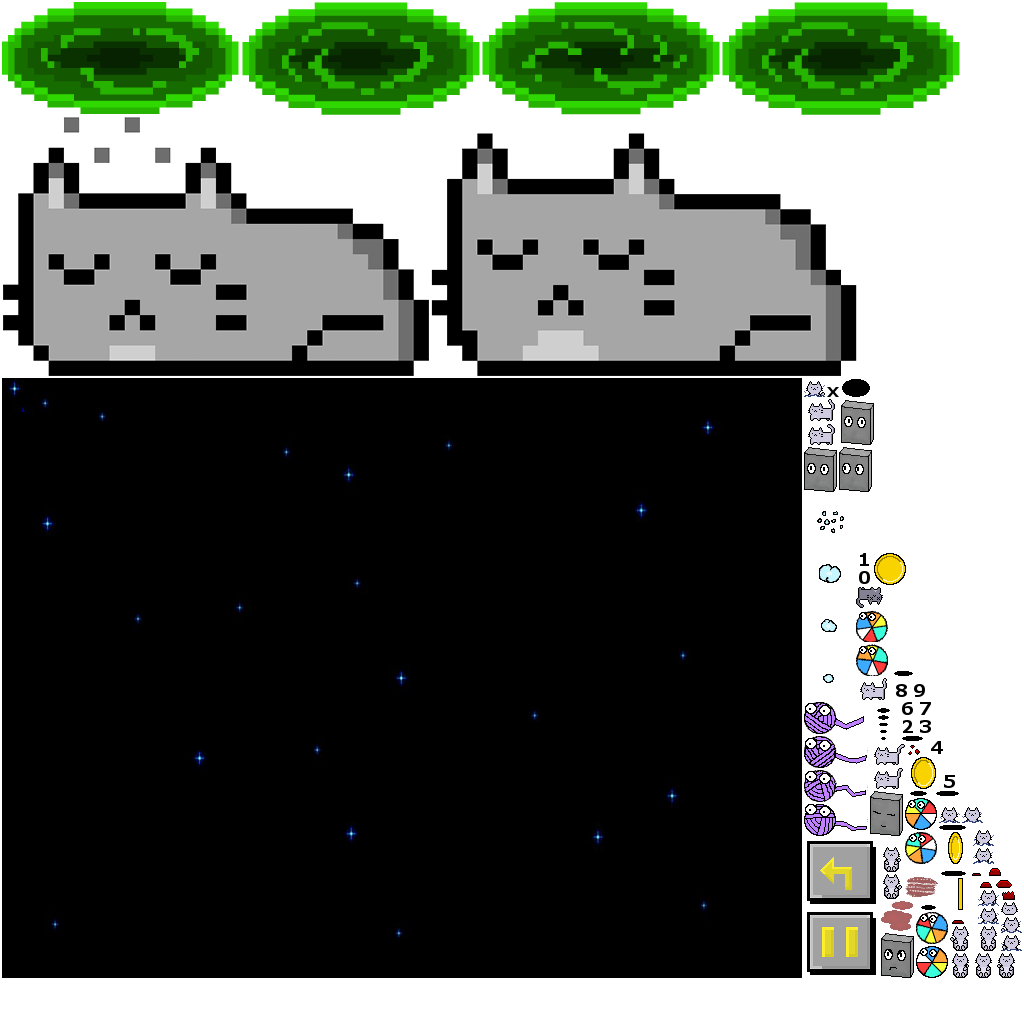
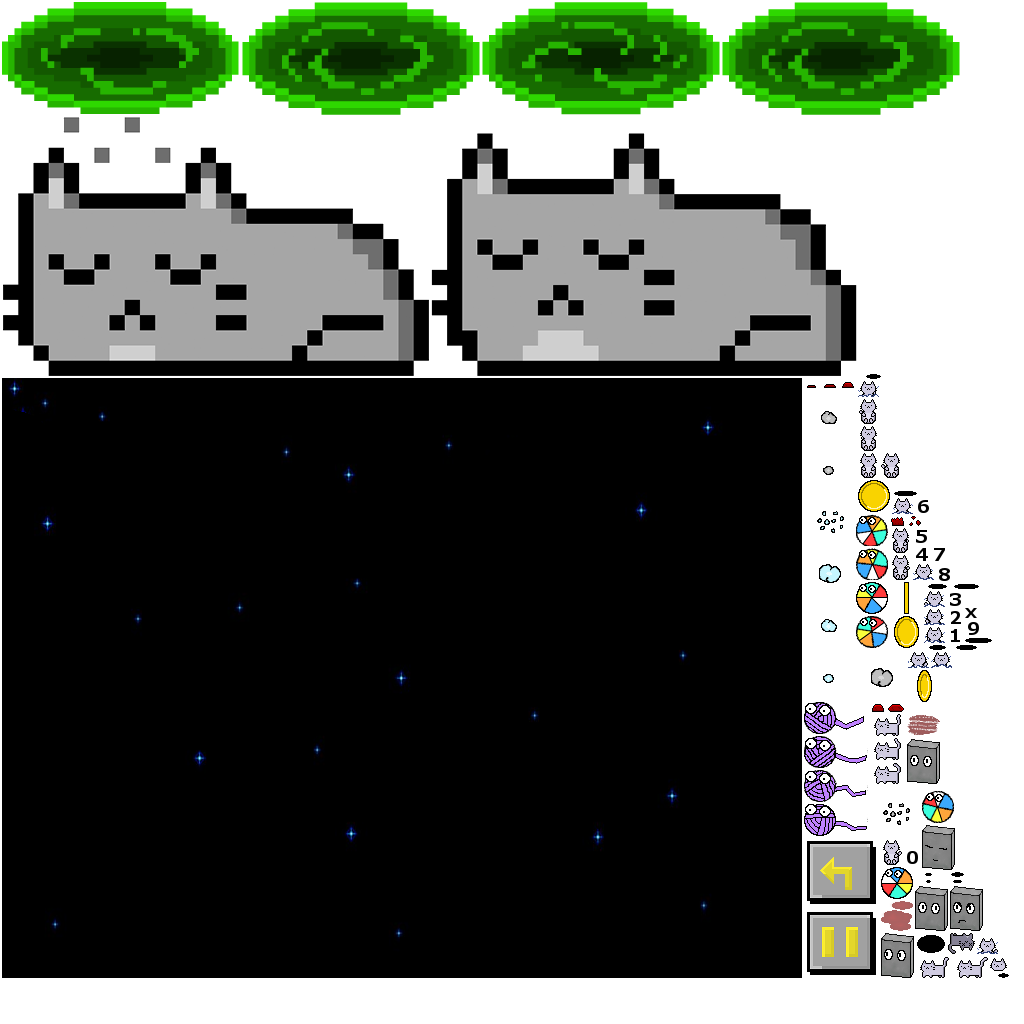
Added cat1s annihilation death smoke

Changed region(s): [[0.7812, 0.375, 1.0, 0.9688]]

diff --git a/core/src/com/sandra/game/screens/Level.java b/core/src/com/sandra/game/screens/Level.java
@@ -14,6 +14,7 @@ import com.badlogic.gdx.graphics.g2d.Sprite;
 import com.badlogic.gdx.maps.tiled.TiledMap;
 import com.badlogic.gdx.maps.tiled.TmxMapLoader;
 import com.badlogic.gdx.maps.tiled.renderers.OrthoCachedTiledMapRenderer;
+import com.badlogic.gdx.math.DelaunayTriangulator;
 import com.badlogic.gdx.math.Vector2;
 import com.badlogic.gdx.physics.box2d.Box2DDebugRenderer;
 import com.badlogic.gdx.physics.box2d.World;
@@ -25,6 +26,7 @@ import com.sandra.game.Cat_game;
 import com.sandra.game.entities.Blood;
 import com.sandra.game.entities.Cat1;
 import com.sandra.game.entities.Coin;
+import com.sandra.game.entities.Dust;
 import com.sandra.game.entities.Entity;
 import com.sandra.game.entities.Lava_bubble_burst;
 import com.sandra.game.entities.Portal;
@@ -64,6 +66,7 @@ public abstract class Level implements Screen {
     private DelayedRemovalArray<Entity> portals;
 	private DelayedRemovalArray<Entity> thwompers;
 	private DelayedRemovalArray<Entity> shadows;
+    private DelayedRemovalArray<Entity> annihilate_dusts;
     private Array<Vector2> lava_bubble_bursts_positions;
 
     private Controls controls;
@@ -92,9 +95,12 @@ public abstract class Level implements Screen {
 
     private float lava_bubble_burst_ratio;
 
+    private float end_level_timer;
+
     public Level(Cat_game game, String level_filename) {
         this.game = game;
         pause = false;
+        end_level_timer = 0f;
 
         camera = new OrthographicCamera();
         camera.setToOrtho(false, Constants.GAME_WIDTH / Constants.PPM, Constants.GAME_HEIGHT / Constants.PPM);
@@ -152,6 +158,8 @@ public abstract class Level implements Screen {
         mapUtils.get_position_from_map("lava_bubble_bursts", lava_bubble_bursts_positions, map);        
         lava_bubble_burst_ratio = 1;
         
+        annihilate_dusts = new DelayedRemovalArray<Entity>();
+
         blood_list = new Array<Blood>();
         blood_timer = 0;
         total_num_cat1s = cat1s.size;
@@ -201,6 +209,12 @@ public abstract class Level implements Screen {
             }
             if (cat1.is_annihilated()) {
                 total_cat1s_annihilated++;
+                annihilate_dusts.add(new Dust(
+                    new Vector2(
+                        cat1.get_render_position().x - Constants.CAT1_HALF_WIDTH,
+                        cat1.get_render_position().y - Constants.CAT1_HALF_HEIGHT),
+                    false
+                ));
                 cat1s.removeValue(cat1, false);
             }
             cat1.update(delta);
@@ -246,22 +260,28 @@ public abstract class Level implements Screen {
             bubble.update(delta);
             if (bubble.get_delete()) lava_bubble_bursts.removeValue(bubble, false);
         }
+
+        for (Entity dust : annihilate_dusts) { 
+            dust.update(delta);
+            if (dust.get_delete()) annihilate_dusts.removeValue(dust, false);
+        }
     }
 
-    private void end_level_condition() {
+    private void end_level_condition(float delta) {
         if (cat1s.size == 0) {
-            try {Thread.sleep(250);}
-            catch (InterruptedException e) {e.printStackTrace();}
-            dispose();
-            ((Cat_game) Gdx.app.getApplicationListener()).setScreen(
-                new Score(
-                    game,
-                    total_num_cat1s == total_cat1s_annihilated,
-                    coinScore,
-                    numCoins,
-                    cat1DeadScore
-                )
-            );
+            end_level_timer += delta;
+            if (end_level_timer >= .9f) {
+                dispose();
+                ((Cat_game) Gdx.app.getApplicationListener()).setScreen(
+                    new Score(
+                        game,
+                        total_num_cat1s == total_cat1s_annihilated,
+                        coinScore,
+                        numCoins,
+                        cat1DeadScore
+                    )
+                );
+            }
         }
     }
 
@@ -282,7 +302,7 @@ public abstract class Level implements Screen {
 
     private void update(float delta) {
         if (!pause) {
-            end_level_condition();
+            end_level_condition(delta);
             camera.update();
             b2d_world.step(Constants.B2D_TIMESTEP, Constants.B2D_VELOCITY_ITERATIONS, Constants.B2D_POSITION_ITERATIONS);
             controls.update(delta);
@@ -324,6 +344,8 @@ public abstract class Level implements Screen {
             thwomper.render(game.batch);
         for (Entity bubble : lava_bubble_bursts)
             bubble.render(game.batch);
+        for (Entity dust : annihilate_dusts) 
+            dust.render(game.batch);;
         hud.render(game.batch);
         game.batch.end();
 

diff --git a/core/src/com/sandra/game/utils/Assets.java b/core/src/com/sandra/game/utils/Assets.java
@@ -97,6 +97,7 @@ public class Assets implements Disposable, AssetErrorListener {
 
     public class DustAssets {
         public final Animation<TextureRegion> dust_animation;
+        public final Animation<TextureRegion> grey_dust_animation;
 
         public DustAssets(TextureAtlas atlas) {
             Array<TextureRegion> dust_frames = new Array<TextureRegion>();
@@ -106,6 +107,14 @@ public class Assets implements Disposable, AssetErrorListener {
             dust_frames.add(atlas.findRegion(Constants.DUST_SPRITE_4));
 
             dust_animation = new Animation<TextureRegion>(Constants.DUST_LOOP_DURATION, dust_frames, PlayMode.NORMAL);
+        
+            Array<TextureRegion> grey_dust_frames = new Array<TextureRegion>();
+            grey_dust_frames.add(atlas.findRegion(Constants.GREY_DUST_SPRITE_1));
+            grey_dust_frames.add(atlas.findRegion(Constants.GREY_DUST_SPRITE_2));
+            grey_dust_frames.add(atlas.findRegion(Constants.GREY_DUST_SPRITE_3));
+            grey_dust_frames.add(atlas.findRegion(Constants.GREY_DUST_SPRITE_4));
+
+            grey_dust_animation = new Animation<TextureRegion>(Constants.DUST_LOOP_DURATION, grey_dust_frames, PlayMode.NORMAL);
         }
     }
 

diff --git a/core/src/com/sandra/game/entities/Dust.java b/core/src/com/sandra/game/entities/Dust.java
@@ -11,8 +11,11 @@ import com.sandra.game.utils.Utils;
 public class Dust extends Entity {
     private float start_time;
     private long animation_start_time;
+    private boolean isRegular;
+    TextureRegion region;
 
-    public Dust(Vector2 position) {
+    public Dust(Vector2 position, boolean isRegular) {
+        this.isRegular = isRegular;
         render_position = position;
         start_time = TimeUtils.nanoTime();
         delete = false;
@@ -21,7 +24,8 @@ public class Dust extends Entity {
 
     public void render(SpriteBatch batch) {
         float animation_time_seconds = Utils.secondsSince(animation_start_time);
-        TextureRegion region = Assets.instance.dustAssets.dust_animation.getKeyFrame(animation_time_seconds);
+        if (isRegular) region = Assets.instance.dustAssets.dust_animation.getKeyFrame(animation_time_seconds);
+        else region = Assets.instance.dustAssets.grey_dust_animation.getKeyFrame(animation_time_seconds);
         Utils.drawTextureRegion(batch, region, render_position);
     }
 

diff --git a/core/src/com/sandra/game/entities/Cat1.java b/core/src/com/sandra/game/entities/Cat1.java
@@ -120,9 +120,11 @@ public class Cat1 extends Entity {
             if (action == Enums.Action.SLIDING && 
                 (Math.abs(body.getLinearVelocity().x) > Math.abs(Constants.ENTETIES_MAX_VELOCITY)*100 || // magic numbers
                 Math.abs(body.getLinearVelocity().y) > Math.abs(Constants.ENTETIES_MAX_VELOCITY)*100) ) {
-                dusts.add(new Dust(new Vector2(
-                            render_position.x - Constants.CAT1_HALF_WIDTH,
-                            render_position.y - Constants.CAT1_HALF_HEIGHT)
+                dusts.add(new Dust(
+                    new Vector2(
+                        render_position.x - Constants.CAT1_HALF_WIDTH,
+                        render_position.y - Constants.CAT1_HALF_HEIGHT),
+                    true
                 ));
             }
             dust_timer = 0f;

diff --git a/core/src/com/sandra/game/utils/Constants.java b/core/src/com/sandra/game/utils/Constants.java
@@ -117,6 +117,10 @@ public class Constants {
     public static final String DUST_SPRITE_2 = "dust2";
     public static final String DUST_SPRITE_3 = "dust3";
     public static final String DUST_SPRITE_4 = "dust4";
+    public static final String GREY_DUST_SPRITE_1 = "grey_dust1";
+    public static final String GREY_DUST_SPRITE_2 = "grey_dust2";
+    public static final String GREY_DUST_SPRITE_3 = "grey_dust3";
+    public static final String GREY_DUST_SPRITE_4 = "grey_dust4";
     public static final float DUST_GENERATION_RATIO = .13f;
     public static final float DUST_LOOP_DURATION = .12f;
     public static final float DUST_DURATION = DUST_LOOP_DURATION * DUST_NUMBER_OF_FRAMES;
